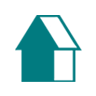
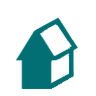
update check 3D

Changed region(s): [[0.1562, 0.1562, 0.875, 0.9375]]

diff --git a/lib/qualitron/view.py b/lib/qualitron/view.py
@@ -1,6 +1,7 @@
 import revitron
+from revitron import _
 from System.Collections.Generic import List
-
+import sys
 
 class ElementOverrides:
     """
@@ -126,3 +127,138 @@ class View3dCreator:
                 ids = List[revitron.DB.ElementId](categoryIds)
                 newView.IsolateCategoriesTemporary(ids)
         return newView
+    
+
+class View3DChecker:
+    @staticmethod
+    def create():
+        XYZ = revitron.DB.XYZ  
+        def makeCounterClockweise(curveloop):
+            if not curveloop.IsCounterclockwise(
+                        revitron.DB.XYZ(0,0,1)):
+                curveloop.Flip()
+
+        def getCropPoints(crop,plane):
+            result = None
+            if crop.IsRectangular(plane) and (not crsm.ShapeSet):
+                makeCounterClockweise(crop)
+                result = [c.GetEndPoint(0) for c in crop]
+            return result
+
+        def getVector(p1,p2):
+            return p2.Add(p1.Negate()).Normalize()
+        
+        def getRangeHeight(level,offset,replace):
+            if level:
+                return level.ProjectElevation + offset
+            else:
+                return replace
+
+        def createBoundingBox(in_min,in_max,angle):
+            origin = XYZ(0,0,0)
+            axis = XYZ(0,0,1)
+            rotate = revitron.DB.Transform.\
+                    CreateRotationAtPoint(axis,
+                                        angle,
+                                        origin)
+
+            rotate_back = revitron.DB.Transform.\
+                    CreateRotationAtPoint(axis,
+                                        -angle,
+                                        origin)	
+            min = rotate.OfPoint(in_min)
+            max = rotate.OfPoint(in_max)
+            bb = revitron.DB.BoundingBoxXYZ()
+            bb.Max = max
+            bb.Min = min
+            bb.Transform = bb.Transform.Multiply(rotate_back)
+            return bb
+
+        def setView3d(bb):
+            view3d = View3dCreator.create('Qualitron_')
+            with revitron.Transaction():
+                view3d.SetSectionBox(bb)
+                view3d.IsSectionBoxActive = True
+            revitron.ACTIVE_VIEW = view3d
+            return view3d
+
+        def createPlanBbox(view2d, points):
+            cutPlane = revitron.DB.PlanViewPlane.CutPlane
+            topClipPlane = revitron.DB.PlanViewPlane.TopClipPlane
+            bottomClipPlane = revitron.DB.PlanViewPlane.BottomClipPlane
+
+            viewrange = view2d.GetViewRange()	
+            cut_level =  revitron.DOC.GetElement(viewrange.GetLevelId(cutPlane))
+            cut_offset = viewrange.GetOffset(cutPlane)
+            cut_replace = cut_level.ProjectElevation + cut_offset
+            
+            top_level =  revitron.DOC.GetElement(viewrange.GetLevelId(topClipPlane))
+            top_offset = viewrange.GetOffset(topClipPlane)
+            top_height = getRangeHeight(top_level, top_offset, cut_replace + 6.561679)	
+            
+            bottom_level =  revitron.DOC.GetElement(viewrange.GetLevelId(bottomClipPlane))
+            bottom_offset = viewrange.GetOffset(bottomClipPlane)	
+            bottom_height = getRangeHeight(
+                                        bottom_level,
+                                        bottom_offset,
+                                        cut_replace - 6.561679)
+            v = getVector(points[0],points[1])
+            angle = v.AngleOnPlaneTo(XYZ(1,0,0),XYZ(0,0,1))	
+            p_min = XYZ(points[0].X,points[0].Y,bottom_height)
+            p_max = XYZ(points[2].X,points[2].Y,top_height)
+
+            return createBoundingBox(p_min,p_max,angle)
+
+        def createSectionBbox(view2d, points, plane):
+            points_top = []
+            points_bottom = []
+            zList = [p.Z for p in points]
+            center = sum(zList)/len(zList)
+            for p in points:
+                if p.Z > center:
+                    points_top.append(p)
+                else:
+                    points_bottom.append(p)
+            bb_height = points_top[0].Z - points_bottom[0].Z
+            bb_depth = _(view2d).get('Far Clip Offset')
+            bb_depth = 100 if bb_depth > 100 else bb_depth
+            bb_depth = 10 if bb_depth < 10 else bb_depth
+            v_bottom = getVector(points_bottom[0],points_bottom[1])
+            angle = v_bottom.AngleOnPlaneTo(XYZ(1,0,0),XYZ(0,0,1))
+            p_min = points_bottom[0]
+            p_max = points_bottom[1].Add(plane.Normal.Multiply(bb_depth))
+            p_max = p_max.Add(XYZ(0,0,bb_height))
+            return createBoundingBox(p_min,p_max,angle)
+
+        
+        vt = revitron.DB.ViewType           
+        planViewTypes = [vt.FloorPlan,vt.AreaPlan,vt.CeilingPlan]
+        sectionViewTypes = [vt.Section]
+        view2d = revitron.ACTIVE_VIEW
+        crsm = view2d.GetCropRegionShapeManager()
+        crop = crsm.GetCropShape()
+
+        recCheck = False
+        if crop:    
+            crop = crop[0]
+            plane = crop.GetPlane()
+            rec = crop.IsRectangular(plane) and (not crsm.ShapeSet)
+            if rec:
+                recCheck = True
+            else:
+                print('View Crop is not rectangular.')
+        else:
+            print('Please turn on view crop.')
+        if not recCheck:
+            sys.exit()
+
+        cropPts = getCropPoints(crop, plane)
+        if view2d.ViewType in planViewTypes:
+            bbox = createPlanBbox(view2d, cropPts)
+        elif view2d.ViewType in sectionViewTypes:
+            bbox = createSectionBbox(view2d, cropPts, plane)
+        else:
+            bbox = None
+        if bbox:    
+            view3d = setView3d(bbox)
+            view3d.OrientTo(plane.Normal)

diff --git a/Revitron.tab/Qualitron.panel/AreaHelper.pushbutton/AreaHelper_script.py b/Revitron.tab/Qualitron.panel/AreaHelper.pushbutton/AreaHelper_script.py
@@ -11,7 +11,6 @@ if __name__ == "__main__":
     selection = revitron.Selection.get()
     runWindow = True
 
-    # Select areas function
     if selection:
         areaIds = AreasHelperManager.selectTargets(selection,'AreasHelper_')
         if areaIds:
@@ -24,7 +23,6 @@ if __name__ == "__main__":
                 runWindow = False
                 revitron.Selection.set(areaIds)
                 
-    # If no selection, show window
     if runWindow:
         revitron.DOC.MassDisplayTemporaryOverride = revitron.DB\
                                         .MassDisplayTemporaryOverrideType\

diff --git a/Revitron.tab/Qualitron.panel/RoomHelper.pushbutton/RoomHelper_script.py b/Revitron.tab/Qualitron.panel/RoomHelper.pushbutton/RoomHelper_script.py
@@ -11,7 +11,6 @@ if __name__ == "__main__":
     selection = revitron.Selection.get()
     runWindow = True
 
-    # Select areas function
     if selection:
         areaIds = RoomsHelperManager.selectTargets(selection,'RoomsHelper_')
         if areaIds:
@@ -24,7 +23,6 @@ if __name__ == "__main__":
                 runWindow = False
                 revitron.Selection.set(areaIds)
                 
-    # If no selection, show window
     if runWindow:
         revitron.DOC.MassDisplayTemporaryOverride = revitron.DB\
                                         .MassDisplayTemporaryOverrideType\

diff --git a/Revitron.tab/Qualitron.panel/Check3D.pushbutton/Check3D_script.py b/Revitron.tab/Qualitron.panel/Check3D.pushbutton/Check3D_script.py
@@ -1,0 +1,12 @@
+from qualitron import View3DChecker
+
+
+if __name__ == "__main__":
+    try:
+        View3DChecker.create()
+    except:
+        import traceback
+        print(traceback.format_exc())
+
+		
+
